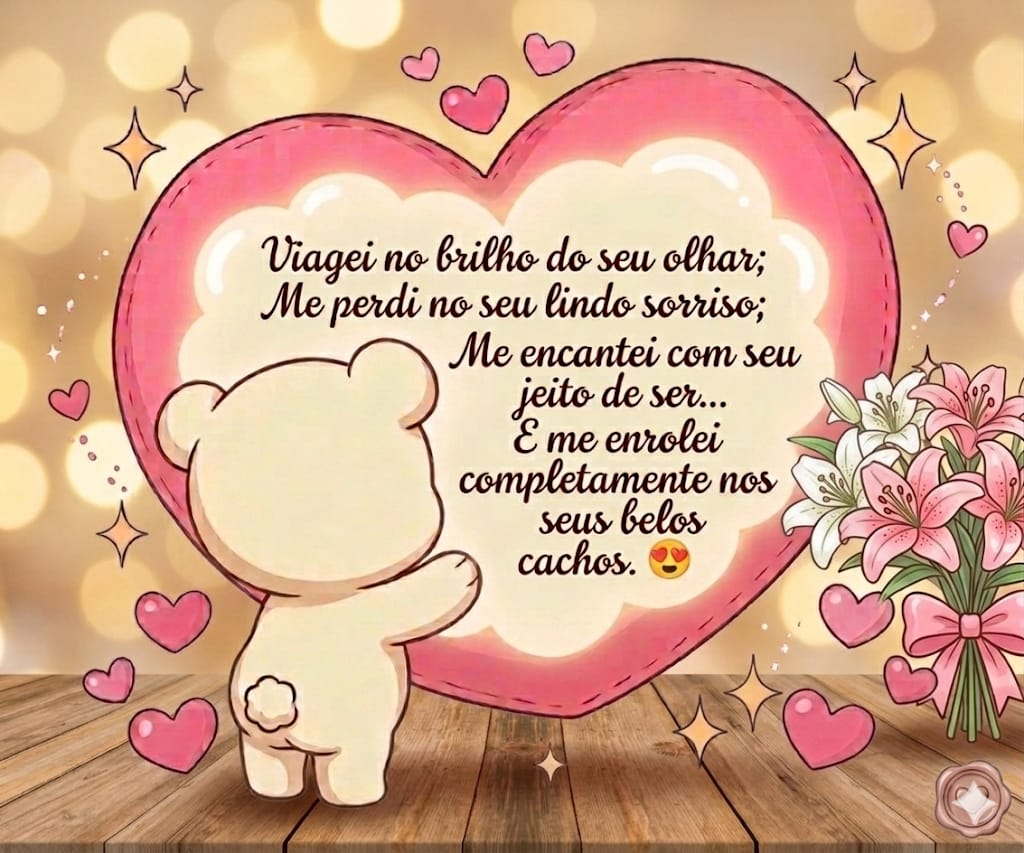
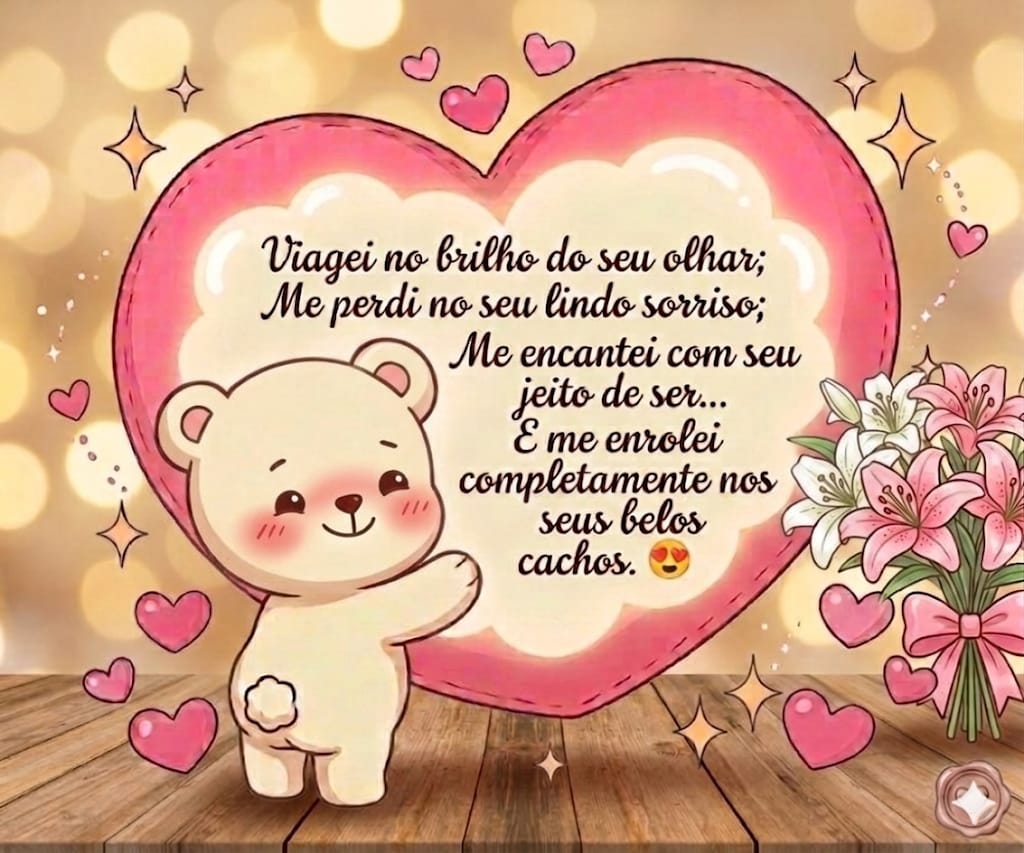
Layout finalizado

diff --git a/css/style.css b/css/style.css
@@ -15,11 +15,11 @@ body, html {
 .escondida { display: none !important; opacity: 0; }
 .ativa { display: flex !important; opacity: 1; }
 
-/* --- ENVELOPE (AUMENTADO) --- */
+/* --- ENVELOPE --- */
 .envelope-box { width: 90%; max-width: 400px; text-align: center; cursor: pointer; }
 .envelope-box img { width: 100%; filter: drop-shadow(0 10px 15px rgba(0,0,0,0.1)); }
 
-/* --- CARTÃO 3D: IMAGENS GRANDES E CENTRALIZADAS --- */
+/* --- CARTÃO 3D: IMAGENS GRANDES E FIRMES --- */
 .cena-3d { 
     width: 92vw;         /* Quase toda a largura do celular */
     height: 92vw;        /* Trava o quadrado perfeito */
@@ -33,7 +33,7 @@ body, html {
     align-items: center;
     
     margin: 0 auto;
-    margin-top: -35px; /* Sobe o conjunto para equilibrar os textos */
+    margin-top: -100px; /* Sobe o conjunto para tirar a sensação de "caído" */
     position: relative;
 }
 
@@ -56,7 +56,7 @@ body, html {
 .face img { width: 100%; height: 100%; object-fit: contain; }
 .verso { transform: rotateY(180deg); }
 
-/* --- TEXTOS E BOTÕES CENTRALIZADOS --- */
+/* --- TEXTOS E BOTÕES --- */
 
 .frase-linda {
     position: absolute;
@@ -69,11 +69,17 @@ body, html {
     font-weight: bold;
     text-shadow: 1px 1px 4px rgba(255, 255, 255, 0.9);
     z-index: 10;
+    transition: opacity 0.5s ease;
+}
+
+/* Limpa a poluição visual: Esconde a frase de cima quando o cartão vira */
+.cartao-3d.virado .frase-linda {
+    opacity: 0;
+    pointer-events: none;
 }
 
 .dica-final, .dica-verso {
     position: absolute;
-    bottom: 15px; 
     width: 90%; 
     left: 5%;
     text-align: center;
@@ -88,7 +94,16 @@ body, html {
     transition: opacity 0.5s ease;
 }
 
-.dica-verso { opacity: 0; pointer-events: none; }
+.dica-final {
+    bottom: 15px;
+}
+
+.dica-verso { 
+    bottom: 25px; /* Mais altinho para compensar a borda da imagem do urso */
+    opacity: 0; 
+    pointer-events: none; 
+}
+
 .cartao-3d.virado .dica-verso {
     opacity: 1; transition-delay: 2.5s; animation: flutuar 2s infinite ease-in-out;
 }